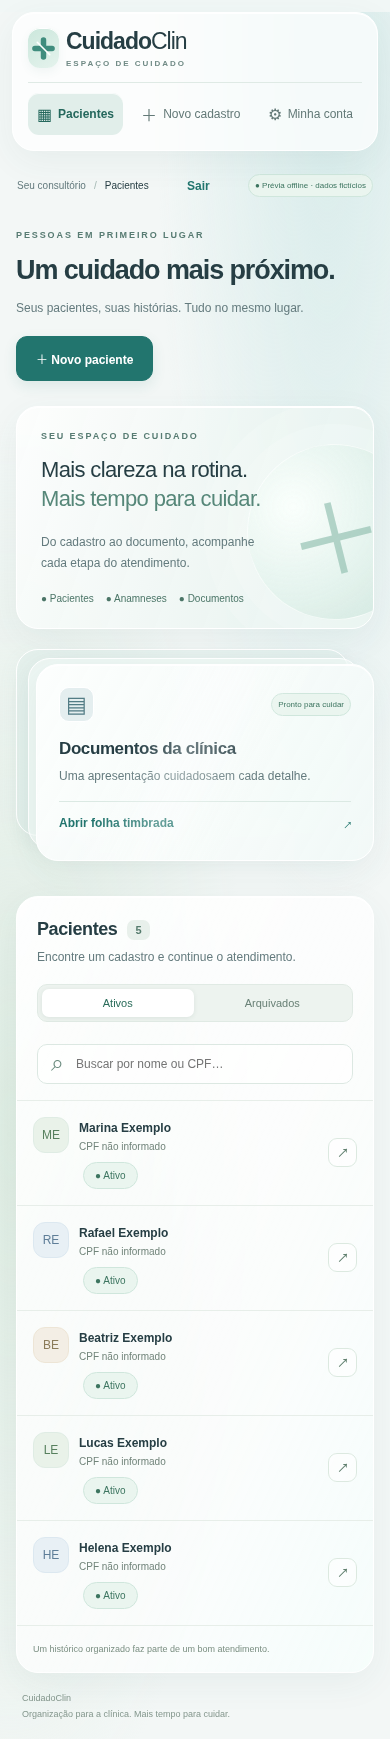
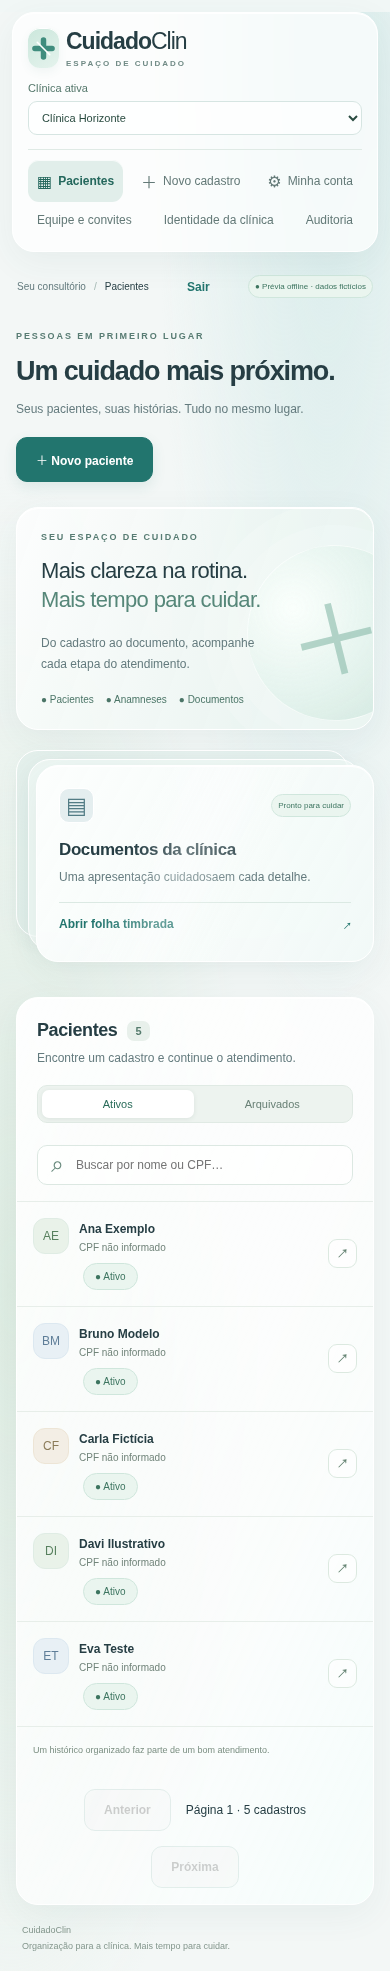
docs: apresenta evolução SaaS e capturas fictícias atualizadas

diff --git a/README.md b/README.md
@@ -3,94 +3,61 @@
 # CuidadoClin
 ### Organização para a clínica. Mais tempo para cuidar.
 
-**Gestão de pacientes · Histórico de anamnese · Documentos personalizados**
+**Pacientes · Anamnese · Equipe · Documentos personalizados**
 
-Case de desenvolvimento de uma aplicação odontológica em evolução para SaaS.
+Case de uma aplicação odontológica em evolução para um SaaS multi-clínicas.
 
-[O projeto](docs/projeto.md) · [Demonstração fictícia](docs/demonstracao.md) · [Arquitetura](docs/arquitetura.md) · [Decisões](docs/decisoes.md) · [Evolução](docs/evolucao.md)
+[Projeto](docs/projeto.md) · [Demonstração](docs/demonstracao.md) · [Arquitetura](docs/arquitetura.md) · [Decisões](docs/decisoes.md) · [Evolução](docs/evolucao.md)
 
 </div>
 
----
+![Painel CuidadoClin com clínica e pacientes fictícios](assets/painel-desktop.png)
 
-## Uma interface pensada para o cuidado
+Superfícies claras, verde-água e cartões de vidro fosco organizam a rotina. A clínica ativa aparece na navegação; cada pessoa encontra as ações permitidas pelo seu vínculo.
 
-![Painel CuidadoClin com pacientes fictícios da Clínica Horizonte](assets/painel-desktop.png)
+<details><summary>Veja o visual no celular</summary>
 
-Superfícies claras, verde-água e cartões de vidro fosco organizam os fluxos do consultório. A navegação mantém pacientes, cadastro e conta próximos; a mesma identidade acompanha os formulários e documentos.
+<img src="assets/painel-celular.png" width="320" alt="CuidadoClin no celular com navegação administrativa e pacientes fictícios" />
 
-<table>
-<tr>
-<td width="72%"><img src="assets/acesso.png" alt="Tela de acesso do CuidadoClin" /></td>
-<td width="28%"><img src="assets/painel-celular.png" alt="Lista de pacientes fictícios em celular" /></td>
-</tr>
-<tr><td>Tela de acesso</td><td>Layout responsivo</td></tr>
-</table>
+</details>
 
-**Todas as capturas foram produzidas em demonstração local com dados fictícios.** Não mostram pacientes, credenciais ou o ambiente de uma clínica real. Não há acesso público ao sistema de clientes.
+**Todas as capturas são de uma demonstração offline com dados fictícios.** Este repositório contém somente documentação e imagens: não distribui código, aplicativo executável, credenciais ou acesso a clientes.
 
-## O problema
+## Do consultório ao produto
 
-Organizar o cadastro de pacientes, consultar informações de anamnese e preparar documentos faz parte da rotina de um consultório. O CuidadoClin reúne esses fluxos em uma aplicação web e preserva a identidade visual dos documentos da clínica.
+O projeto começou com pacientes, anamneses e PDFs de uma clínica odontológica. A evolução mantém esses fluxos e acrescenta contas individuais, equipe, permissões e separação dos dados entre organizações, com uma única base de código.
 
-O projeto parte de uma aplicação para uma clínica odontológica. A próxima etapa é permitir que pequenas clínicas utilizem o mesmo produto com contas individuais, permissões e dados separados por organização.
+## Estado do projeto
 
-## O que existe hoje
+A implementação SaaS está em revisão final e foi exercitada em ambiente local com PostgreSQL e dados sintéticos. **A migração SaaS em produção ainda está pendente.** A versão publicada recebeu o novo visual e conserva o modelo anterior de conta única.
 
-| Recurso | Estado da base atual |
+| Recurso | Estado da implementação SaaS |
 | --- | --- |
-| Login, troca de senha e encerramento de sessão | Implementado para conta administrativa única |
-| Cadastro, edição e consulta de pacientes | Implementado |
-| Arquivamento e restauração de pacientes | Implementado |
-| Registro e histórico de anamnese | Implementado |
-| Ficha, atestado, orçamento, receituário e folha timbrada em PDF | Implementado |
-| Identidade personalizada nos documentos | Modelo específico da clínica de origem |
-| Contas individuais, permissões e múltiplas clínicas | Planejado |
-| Identidade visual e modelo de PDF por clínica | Planejado |
+| Contas individuais, sessões e seleção de clínica | Implementado e testado localmente |
+| Administrador, dentista e recepção | Permissões por vínculo, verificadas no servidor |
+| Cadastro, busca, histórico e arquivamento | Implementados, com paginação e cadastro separado da anamnese |
+| Equipe, convites e recuperação | Implementados; entrega real de e-mail depende de configuração e validação |
+| Isolamento no banco | PostgreSQL RLS e papel restrito, ensaiados localmente |
+| Cinco tipos de PDF | Emitente autorizado e modelos privados por clínica/profissional |
+| Preservação do legado | Migração e comparação visual ensaiadas com dados sintéticos |
 
-**Este repositório é uma apresentação documental.** Não contém o código-fonte da aplicação, um aplicativo executável ou acesso ao ambiente de clientes. Os cenários de demonstração são integralmente fictícios. A evolução multi-clínicas ainda não foi implementada na base apresentada.
+## Decisões que orientam a engenharia
 
-## Percurso principal
+- Código compartilhado; acesso determinado por usuário, clínica e permissão.
+- Administrador não recebe acesso clínico automaticamente.
+- Trocar de clínica limpa formulários e documentos e descarta respostas atrasadas.
+- Cadastro e anamnese são etapas independentes: uma falha clínica não duplica o paciente.
+- Documentos pessoais permanecem exclusivos de seu profissional; outras clínicas usam identidade própria.
+- Demonstração e produção usam adaptadores separados; nenhum dado real entra no portfólio.
 
-```mermaid
-flowchart LR
-    A[Entrar no sistema] --> B[Consultar ou cadastrar paciente]
-    B --> C[Consultar histórico de anamnese]
-    C --> D[Preparar documento]
-    D --> E[Baixar PDF timbrado]
-```
+## Tecnologia e validação
 
-[Explore um atendimento fictício e exemplos de dados →](docs/demonstracao.md)
+React, Vite e React Router na interface; Node.js/Express na API; PostgreSQL; sessões opacas em cookie HttpOnly, CSRF e bcrypt; geração de PDFs com pdf-lib.
 
-## Tecnologia
+Os ensaios incluem permissões, isolamento entre clínicas, concorrência de convites, recuperação de backup e PDFs. As jornadas de navegador usam dados sintéticos e verificam cadastro, troca de clínica, documentos e logout. Isso não equivale a uma auditoria ou certificação de produção.
 
-| Camada | Tecnologia |
-| --- | --- |
-| Interface | React 19, Vite e React Router |
-| API | Node.js e Express |
-| Persistência | PostgreSQL |
-| Autenticação | JWT e bcrypt |
-| Documentos | pdf-lib |
-| Verificação | Test runner nativo do Node e lint do frontend |
-
-## Destaques de engenharia
-
-- Separação entre interface, API e persistência.
-- Documentos obtidos por requisições autenticadas, sem credenciais na URL.
-- Revogação de sessões associada à conta e limites de tentativas persistidos no banco.
-- Migrações versionadas com verificação de integridade e aplicação transacional.
-- Planejamento da transição para múltiplas clínicas sem perder a personalização existente.
-
-Esses pontos descrevem a base de código inspecionada; não constituem auditoria de produção, certificação ou garantia de conformidade.
-
-## Próxima versão
-
-O primeiro público será formado por consultórios e pequenas clínicas odontológicas. A base compartilhada incluirá usuários, clínicas, permissões e identidade visual por clínica. Outras especialidades serão incorporadas gradualmente.
-
-[Veja o que está confirmado e o que ainda precisa ser definido →](docs/evolucao.md)
+[Leia os limites e a próxima etapa de publicação →](docs/evolucao.md)
 
 ## Autoria
 
-Projeto apresentado por [dev-alef](https://github.com/dev-alef).
-
-O código da aplicação é privado. Este repositório reúne exclusivamente documentação e exemplos preparados para portfólio. Estado documentado em **1 de novembro de 2026**.
+Projeto apresentado por [dev-alef](https://github.com/dev-alef). Código privado; case público documental. Estado documentado em **4 de novembro de 2026**.

diff --git a/docs/demonstracao.md b/docs/demonstracao.md
@@ -1,51 +1,17 @@
-# Demonstração documental
+# Demonstração fictícia
 
-> Todos os nomes e registros desta página são fictícios. Os identificadores DEMO são rótulos de apresentação, não identificadores de um banco real. Esta página não é uma demonstração interativa.
+As capturas mostram a demonstração offline recém-iniciada, sem acesso à API ou a dados reais. Os nomes Ana Exemplo, Bruno Modelo, Carla Fictícia, Davi Ilustrativo e Eva Teste são sintéticos; telefones zerados e endereços `example.invalid` são marcadores sem uso real.
 
-## Clínica fictícia
+A Clínica Horizonte demonstra administração e odontologia; a Clínica Aurora demonstra acesso de recepção. A troca de clínica muda o conjunto de dados e as ações disponíveis.
 
-**Clínica Horizonte — demonstração CuidadoClin**
+## Percurso ilustrado
 
-Identidade de exemplo: azul-petróleo, fundo branco e cabeçalho com o nome da clínica. Não utiliza logotipo, timbrado ou dados da clínica de origem.
+1. Escolher a clínica ativa.
+2. Consultar ou cadastrar um paciente fictício.
+3. Acessar a anamnese quando o papel permite.
+4. Consultar equipe e identidade com acesso administrativo.
+5. Trocar de clínica e observar as permissões da recepção.
 
-## Exemplos de pacientes
+Os PDFs ficam indisponíveis na demo offline. Os cinco fluxos de documentos foram testados separadamente com API e banco locais descartáveis; as imagens não mostram o timbrado pessoal da clínica de origem.
 
-| Identificador fictício | Nome fictício | E-mail de exemplo | Situação |
-| --- | --- | --- | --- |
-| DEMO-001 | Paciente Exemplo A | paciente.a@example.com | Ativo |
-| DEMO-002 | Paciente Exemplo B | paciente.b@example.com | Ativo |
-| DEMO-003 | Paciente Exemplo C | paciente.c@example.com | Arquivado |
-
-CPF, telefone, endereço, assinaturas e registros profissionais foram omitidos. Nenhum dado foi extraído de clientes.
-
-## Roteiro: consultar e preparar um documento
-
-| Etapa | Ação ilustrada | Resultado esperado na aplicação existente |
-| --- | --- | --- |
-| 1 | Entrar com a conta administrativa de teste | Acessar a lista de pacientes |
-| 2 | Abrir Paciente Exemplo A | Consultar cadastro e histórico |
-| 3 | Registrar anamnese fictícia | Acrescentar uma entrada ao histórico |
-| 4 | Preparar orçamento de demonstração | Gerar um PDF autenticado |
-| 5 | Arquivar Paciente Exemplo C | Manter o cadastro disponível para restauração |
-
-Nenhuma credencial pública ou serviço externo é necessário para ler este roteiro.
-
-## Conteúdo ilustrativo de documento
-
-| Campo | Exemplo fictício |
-| --- | --- |
-| Clínica | Clínica Horizonte — DEMONSTRAÇÃO |
-| Documento | Orçamento ilustrativo |
-| Paciente | Paciente Exemplo A |
-| Item | Serviço demonstrativo sem finalidade clínica |
-| Quantidade | 1 |
-| Valor | R$ 100,00 — valor arbitrário de demonstração |
-| Observação | Documento fictício, sem validade clínica ou comercial |
-
-Esta tabela representa o conteúdo de exemplo, não uma captura de tela ou um PDF produzido pela aplicação.
-
-## Cenário futuro: duas clínicas
-
-**Planejado, ainda não disponível:** uma segunda organização, Clínica Aurora — Demonstração, terá equipe e pacientes próprios. Uma tentativa de acessar um registro da Horizonte a partir da Aurora deverá ser recusada, inclusive na geração de PDF.
-
-Cada clínica deverá usar sua própria identidade. Esse cenário será validado depois da implementação multi-clínicas.
+Este repositório publica imagens e documentação, não o HTML executável nem credenciais. Não existe ambiente de clientes acessível pelo showcase.

diff --git a/docs/arquitetura.md b/docs/arquitetura.md
@@ -1,40 +1,21 @@
-# Arquitetura e limites
-
-## Base existente
+# Arquitetura
 
 ```mermaid
-flowchart TB
-    U[Usuário administrativo] --> F[Interface React e Vite]
-    F -->|Requisições autenticadas| A[API Node.js e Express]
-    A --> P[(PostgreSQL)]
-    A --> D[Geração de PDF]
-    T[Modelo timbrado da clínica] --> D
-    D -->|Download autenticado| F
+flowchart LR
+    U[Usuário] --> F[React: clínica ativa]
+    F --> P[API na mesma origem]
+    P --> A[Sessão e permissões]
+    A --> T[Transação com contexto de clínica]
+    T --> DB[(PostgreSQL com RLS)]
+    T --> D[PDF e modelo autorizado]
 ```
 
-A interface apresenta os fluxos de pacientes e documentos. A API verifica autenticação, acessa o PostgreSQL e prepara os PDFs. O modelo visual dos documentos ainda é global para a clínica de origem.
+A identidade vem da sessão opaca em cookie HttpOnly. Mutações exigem CSRF e origem autorizada. O identificador de clínica enviado pelo navegador é validado contra o vínculo ativo; papéis enviados pelo cliente não concedem acesso.
 
-## Organização do desenvolvimento
+As consultas incluem a clínica, e políticas RLS restringem os registros no PostgreSQL. O contexto é local à transação, na mesma conexão, e o papel de execução não é administrador do banco. Chaves estrangeiras compostas impedem associações clínicas cruzadas.
 
-O projeto mantém interface, API e site institucional em um repositório privado, com aplicações e dependências separadas. A apresentação pública tem histórico independente e não distribui o repositório da aplicação.
+Na interface, trocar de clínica cancela requisições, descarta respostas atrasadas e limpa formulários e PDFs. O cadastro básico é separado da informação clínica; a recepção recebe respostas sem anamnese ou observações clínicas.
 
-## Controles presentes na base
+Os documentos usam o próprio perfil profissional autorizado. Modelos pessoais são vinculados ao profissional; modelos institucionais recebem sua identificação na emissão. Publicação de modelos é assistida, privada e versionada.
 
-- Senhas verificadas por hash bcrypt e acesso por token JWT.
-- Revogação de sessões por versão de token da conta administrativa.
-- Limites de tentativas de autenticação persistidos no PostgreSQL.
-- Validação de identificadores antes de consultas privadas.
-- PDFs recebidos pelo frontend por requisição autenticada.
-- Migrações versionadas com checksum, transação e controle de concorrência.
-
-A base atual ainda não implementa autorização por clínica. Autenticação, por si só, não representa isolamento entre organizações.
-
-## Evolução confirmada
-
-O produto deverá representar usuários, clínicas e suas associações, aplicar permissões e selecionar a identidade da clínica para os documentos. O mecanismo de isolamento no banco, o modelo de sessão, os papéis iniciais e a estratégia de migração ainda serão definidos no plano técnico.
-
-## Validação
-
-O projeto possui suites para autenticação, migrações, configuração TLS, downloads e sessão, além de um procedimento local de recuperação com dados fictícios. Esta publicação documental não executou novamente essas suites nem comprova a configuração de produção.
-
-Antes do lançamento multi-clínicas, será necessário demonstrar isolamento de leitura e escrita, revogação de acesso, recuperação de dados e preservação visual dos documentos personalizados.
+Essa arquitetura está implementada e ensaiada localmente; validação do proxy e dos cookies na hospedagem e migração de produção ainda são etapas de publicação.

diff --git a/docs/evolucao.md b/docs/evolucao.md
@@ -1,32 +1,25 @@
-# Evolução do CuidadoClin
+# Evolução e limites
 
-## Base atual
+## Concluído na implementação local
 
-Gestão de pacientes, histórico de anamnese e geração de documentos, com uma conta administrativa e um modelo visual específico.
+Contas e clínicas, papéis, sessões, equipe, isolamento na API e no banco, documentos personalizados, interface responsiva e demo separada. O backend passou por revisão independente; a interface está em revisão final.
 
-## Primeira versão SaaS — escopo confirmado
+## Evidências disponíveis
 
-- Contas individuais.
-- Clínicas independentes no mesmo produto.
-- Permissões por associação à clínica.
-- Separação de dados entre clínicas.
-- Identidade visual e documentos personalizados por clínica.
-- Preservação do modelo de documentos da clínica de origem.
+- PostgreSQL real descartável com papel restrito: isolamento, vínculos, convites e concorrência.
+- Backup e restauração com dados sintéticos e verificação de campos cifrados.
+- Cinco fluxos pessoais de PDF, seis páginas, com comparação raster ao baseline para entradas equivalentes.
+- Jornadas da interface: cadastro parcial sem duplicação, troca de clínica, permissões, PDFs e logout.
+- Demo offline sem requisições HTTP; build normal separado dos dados de exemplo.
 
-Esses itens são planejados. O repositório público não representa conclusão da implementação.
+A data civil foi corrigida para evitar deslocamento de dia por fuso. Essa correção intencional de conteúdo não é apresentada como visualmente idêntica à data errada anterior.
 
-## Critérios propostos para verificar a versão
+## Antes da publicação SaaS
 
-| Cenário | Evidência esperada |
-| --- | --- |
-| Usuário de uma clínica tenta acessar paciente de outra | Operação recusada no servidor |
-| Usuário tenta emitir documento de outra clínica | Operação recusada, sem PDF ou dados do paciente |
-| Duas clínicas emitem documentos | Cada PDF utiliza apenas a identidade correspondente |
-| Revogação do acesso de um membro | Requisições posteriores deixam de ser autorizadas |
-| Migração da clínica de origem | Dados e documentos preservados, com ensaio em ambiente isolado |
+Concluir revisão da interface, recuperar acesso operacional, restaurar backup atual em ambiente isolado, validar proxy/cookies na hospedagem e executar migração coordenada. A produção ainda não foi migrada; o usuário legado deverá manter sua senha e receber vínculo de administrador + dentista na clínica de origem.
 
-A matriz detalhada de permissões e a estratégia de verificação serão fechadas no plano técnico.
+Entrega real de e-mail não foi verificada. Convites/reset na interface foram também exercitados com respostas sintéticas; isso não prova entrega. O piloto admite links privados preparados pelo operador, sem prometer e-mail automático.
 
-## Depois da primeira versão
+## Fora do escopo
 
-Expansão para outras especialidades, orientada por necessidades verificadas. Cobrança de assinaturas, integrações e novos módulos deverão ser priorizados separadamente. Não há datas de lançamento prometidas neste documento.
+Cobrança, cadastro aberto, agenda nova, assinatura digital, anexos clínicos e outras especialidades. Não há data de lançamento ou certificação regulatória anunciada.

diff --git a/docs/decisoes.md b/docs/decisoes.md
@@ -1,23 +1,17 @@
 # Decisões do produto
 
-Este documento separa escolhas confirmadas de aspectos que ainda dependem do plano técnico.
+| Decisão | Motivo e consequência |
+| --- | --- |
+| CuidadoClin como nome de trabalho | Identidade própria; domínio adiado, sem alegação de registro de marca |
+| Odontologia primeiro | Aproveitar os fluxos existentes antes de ampliar especialidades |
+| Um produto, várias clínicas | Código compartilhado e dados autorizados por organização |
+| Papéis por vínculo | Uma pessoa pode ter responsabilidades diferentes em clínicas diferentes |
+| Administração sem acesso clínico automático | Acesso de dentista exige aprovação profissional assistida |
+| Migração sem recifrar dados | Preservar chave, senha, identificadores e histórico do legado |
+| Modelo pessoal exclusivo | Preservar a personalização original sem utilizá-la em nome de outro profissional |
+| Convites e onboarding assistidos | Operação inicial controlada, sem cadastro aberto ou cobrança nesta etapa |
+| Código privado, showcase separado | Apresentação pública com imagens e conteúdo fictícios |
 
-| Decisão confirmada | Motivo | Consequência |
-| --- | --- | --- |
-| Adotar CuidadoClin como nome de trabalho | Dar identidade própria ao produto | Registro de domínio ficou para depois; não implica registro de marca |
-| Começar por odontologia | Aproveitar o contexto e os fluxos da aplicação existente | Outras especialidades entram em etapas posteriores |
-| Contas individuais e separação por clínica | Atender equipes e organizações independentes | A autorização deverá abranger API, dados e documentos |
-| Identidade visual por clínica | Respeitar a apresentação de cada cliente | Os documentos deverão selecionar o modelo da organização autorizada |
-| Preservar a personalização da clínica de origem | Manter um requisito existente durante a evolução | O timbrado atual será exclusivo daquela clínica |
-| Código privado e portfólio público separado | Apresentar o trabalho sem distribuir a implementação | Este repositório contém somente documentação e exemplos fictícios |
-| Demonstração com dados inteiramente fictícios | Permitir a apresentação sem expor pacientes | Conteúdo sintético, sem cópias de bases reais |
+Revogação e convites antigos não podem restaurar acesso indevido. O último administrador ativo é protegido também sob concorrência. Essas regras são verificadas no servidor e em transações.
 
-## O que ainda está aberto
-
-- Papéis e limites de acesso de cada integrante da equipe.
-- Cadastro de clínicas e convite de usuários.
-- Participação de um usuário em mais de uma clínica.
-- Mecanismo de isolamento de dados e migração da base existente.
-- Processo de configuração e armazenamento dos modelos visuais.
-
-Essas questões não são apresentadas como decisões já implementadas.
+O operador aprova acesso clínico e publica modelos; essa função não concede acesso clínico global ao produto. E-mail automático só é anunciado quando existe transporte configurado, com validação real pendente antes de onboarding externo.

diff --git a/docs/projeto.md b/docs/projeto.md
@@ -1,33 +1,9 @@
 # Do consultório ao produto
 
-## Contexto
+O CuidadoClin reúne cadastro de pacientes, histórico de anamnese e documentos personalizados. Seu ponto de partida é um consultório odontológico; o primeiro público SaaS são consultórios e pequenas clínicas dessa especialidade.
 
-O CuidadoClin nasce de uma aplicação voltada à rotina de um consultório odontológico. A base existente permite administrar pacientes, registrar anamneses e gerar documentos a partir de um modelo visual personalizado.
+A evolução permite que uma pessoa participe de várias clínicas, com papéis próprios em cada vínculo. A clínica ativa orienta a interface, mas a autorização é sempre verificada pelo servidor.
 
-A evolução proposta transforma essa base em um produto para várias clínicas. Cada organização deverá controlar sua equipe, seus pacientes e sua apresentação visual.
+O foco desta versão é preservar a rotina existente e permitir equipes independentes. Não há resultados comerciais ou economia de tempo anunciados: esses indicadores não foram medidos neste case.
 
-## Público inicial
-
-Consultórios e pequenas clínicas odontológicas. Expandir para outras especialidades é uma direção futura, que depende da adaptação dos fluxos clínicos e de validação com usuários.
-
-## Fluxos existentes
-
-1. Acessar a aplicação com a conta administrativa.
-2. Consultar, cadastrar ou editar um paciente.
-3. Registrar uma anamnese e consultar seu histórico.
-4. Preparar ficha, atestado, orçamento ou receituário em PDF.
-5. Arquivar um paciente e restaurá-lo quando necessário.
-
-O arquivamento permite retirar um cadastro da operação ativa sem uma exclusão física por esse fluxo.
-
-## Critérios de evolução
-
-- Toda operação deverá respeitar a associação entre usuário e clínica.
-- Acesso a dados e emissão de PDFs deverão ser verificados no servidor.
-- Personalização de documentos deverá acompanhar a clínica.
-- Um profissional não deverá obter informações de outra clínica apenas por conhecer um identificador.
-- A demonstração deverá permanecer separada dos dados reais.
-
-## Limites do case
-
-Não são apresentados números de clientes, economia de tempo ou resultados comerciais porque não foram medidos para este case. Também não são anunciados como disponíveis cobrança por assinatura, agenda completa, assinatura digital, auditoria clínica integral ou prontuários específicos de múltiplas especialidades.
+A implementação SaaS está em revisão final após ensaios locais. A migração em produção permanece pendente. Outras especialidades, cobrança, cadastro público e assinatura digital ficam fora desta versão.
